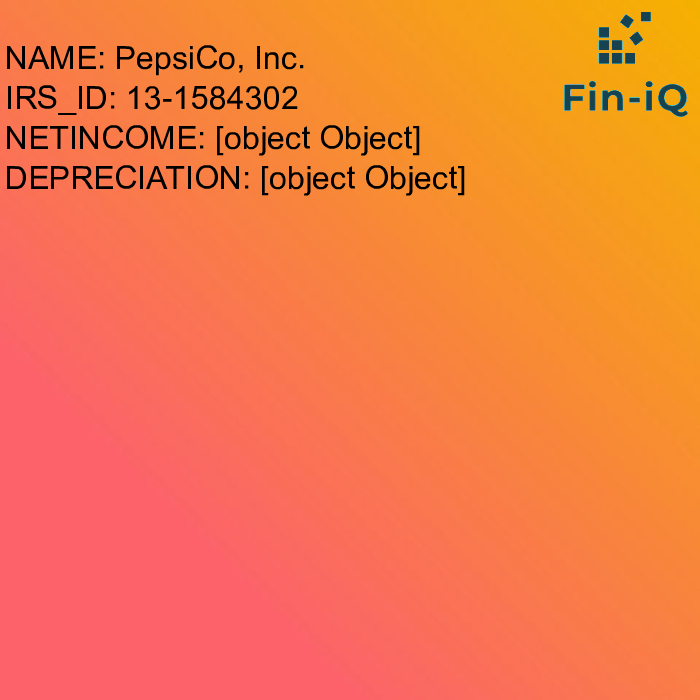
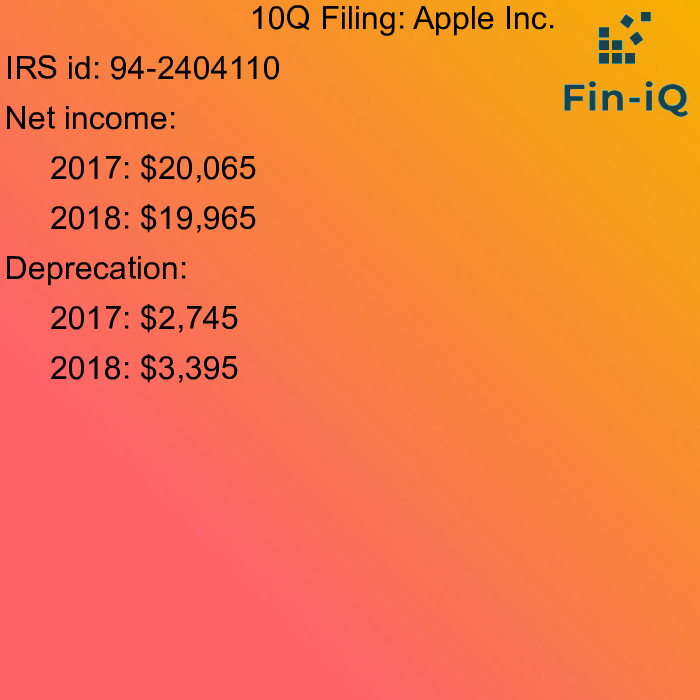
added data

Changed region(s): [[0.0, 0.0, 0.78, 0.33], [0.0, 0.36, 0.36, 0.48], [0.06, 0.51, 0.36, 0.54]]

diff --git a/image.js b/image.js
@@ -25,10 +25,50 @@ image.makeImage = function(info, callback) {
                 .then((watermark) => {   
                 let counter = 0; 
                 Object.keys(info).forEach((item) => { 
-                    counter+=20;
-                    loadedImage.print(font, 5, 2 * (counter), item.toUpperCase() + ": " + info[item])
+                    
+                    switch(item.toUpperCase()){
+                        case 'NAME':
+                            loadedImage.print(font, loadedImageWidth/2 - 100, 2 * (counter), '10Q Filing: ' + info[item])
+                                .composite(watermark, loadedImageWidth - 180, -35)
+                                .write((fileNameNew));
+                            counter+=25;
+                            break;
+                        case 'IRS_ID':
+                            loadedImage.print(font, 5, 2 * (counter), 'IRS id: ' + info[item])
+                                .composite(watermark, loadedImageWidth - 180, -35)
+                                .write((fileNameNew));
+                            counter+=25;
+                            break;
+                        case 'NETINCOME':
+                            loadedImage.print(font, 5, 2 * (counter), 'Net income: ')
+                                .composite(watermark, loadedImageWidth - 180, -35)
+                                .write((fileNameNew));
+                            counter += 25;
+                            Object.keys(info[item]).forEach((year)=>{
+                                loadedImage.print(font, 50, 2 * (counter), year + ': $' + info[item][year])
+                                    .composite(watermark, loadedImageWidth - 180, -35)
+                                    .write((fileNameNew));
+                                    counter += 25;
+                            });
+                            break;
+                        case 'DEPRECIATION':
+                            loadedImage.print(font, 5, 2 * (counter), 'Deprecation: ')
                             .composite(watermark, loadedImageWidth - 180, -35)
-                    .write((fileNameNew));
+                            .write((fileNameNew));
+                            counter += 25;
+                            Object.keys(info[item]).forEach((year)=>{
+                                loadedImage.print(font, 50, 2 * (counter), year + ': $' + info[item][year])
+                                    .composite(watermark, loadedImageWidth - 180, -35)
+                                    .write((fileNameNew));
+                                    counter += 25;
+                            });
+                            break;
+                        default://do nothing
+                            break;
+                    }
+                    
+                    
+                    
                 })
                 })        
                 loadedImage

diff --git a/parse.js b/parse.js
@@ -4,7 +4,7 @@ const request = require('request');
 
 const parse = {}; 
 
-let doc1 = 'https://www.sec.gov/Archives/edgar/data/77476/000007747618000055/pepsicoq2-10xq6162018.htm'
+let doc1 = 'https://www.sec.gov/Archives/edgar/data/1318605/000156459018026353/tsla-10q_20180930.htm'
 let doc2 = 'https://www.sec.gov/Archives/edgar/data/789019/000156459019001392/msft-10q_20181231.htm'
 let doc3 = 'https://www.sec.gov/Archives/edgar/data/320193/000032019319000010/a10-qq1201912292018.htm' 
 
@@ -93,7 +93,8 @@ request(doc, function (error, response, body) {
                             if(dates.length){
                                 dep_strings.forEach((i)=>{
                                     let index = Object.keys(data.depreciation).length;
-                                    data.depreciation[dates[index]] = dep_strings[index];
+                                    if(dates[index] && !isNaN(dep_strings[index][0]))
+                                        data.depreciation[dates[index]] = dep_strings[index];
                                 });
                             }
                         }

diff --git a/main.js b/main.js
@@ -26,13 +26,15 @@ app.get('/waiting', (req, res) => {
 })
 
 app.post("/send_url", (req, res) => { 
-
-    parse.getinfo(req.body.url, (info) => { 
-        image.makeImage(info, () => {
-            res.sendFile(__dirname + "/public/test.html")
+    if(req.body.url.startsWith('https://www.sec.gov/Archives/edgar/data/')){
+        parse.getinfo(req.body.url, (info) => { 
+            image.makeImage(info, () => {
+                res.sendFile(__dirname + "/public/test.html")
+            })
         })
-        // res.sendFile(__dirname + "/public/waiting.html")
-    })
+    }else{
+        res.sendFile(__dirname + "/public/index.html")
+    }
 })
 
 app.get('/url_analyze', (req, res) => {
